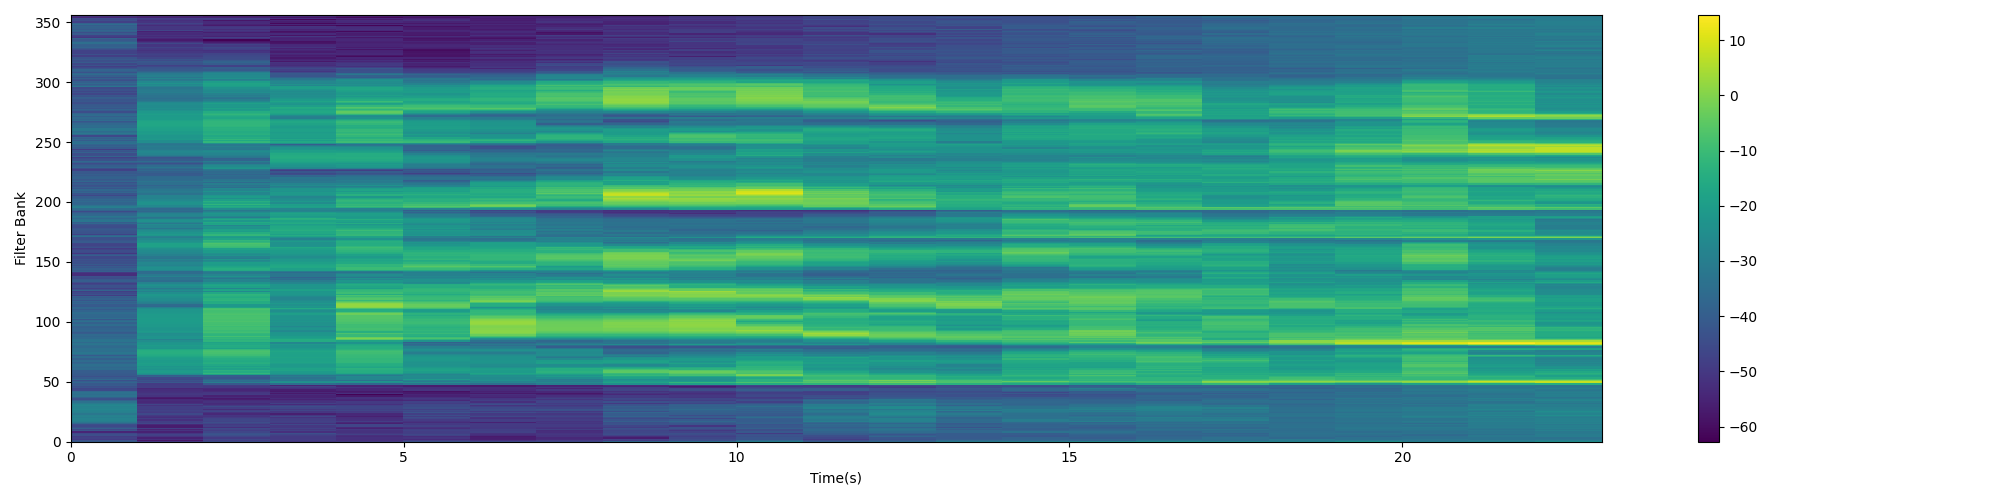
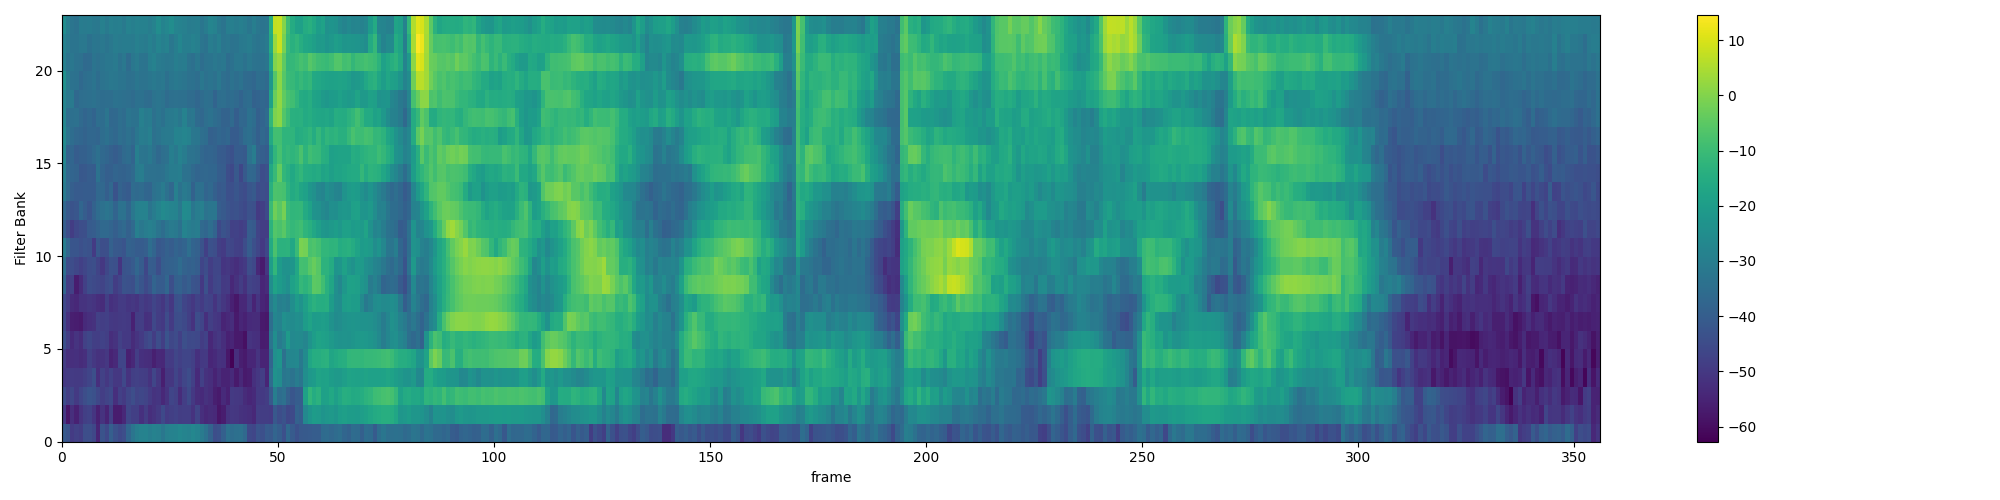
0828

diff --git a/02-feature-extraction/mfcc.py b/02-feature-extraction/mfcc.py
@@ -17,9 +17,9 @@ def plot_spectrogram(spec, note, file_name):
         :param file_name: name of the file
     """
     fig = plt.figure(figsize=(20, 5))
-    heatmap = plt.pcolor(spec)
+    heatmap = plt.pcolor(spec.T)
     fig.colorbar(mappable=heatmap)
-    plt.xlabel('Time(s)')
+    plt.xlabel('frame')
     plt.ylabel(note)
     plt.tight_layout()
     plt.savefig(file_name)
